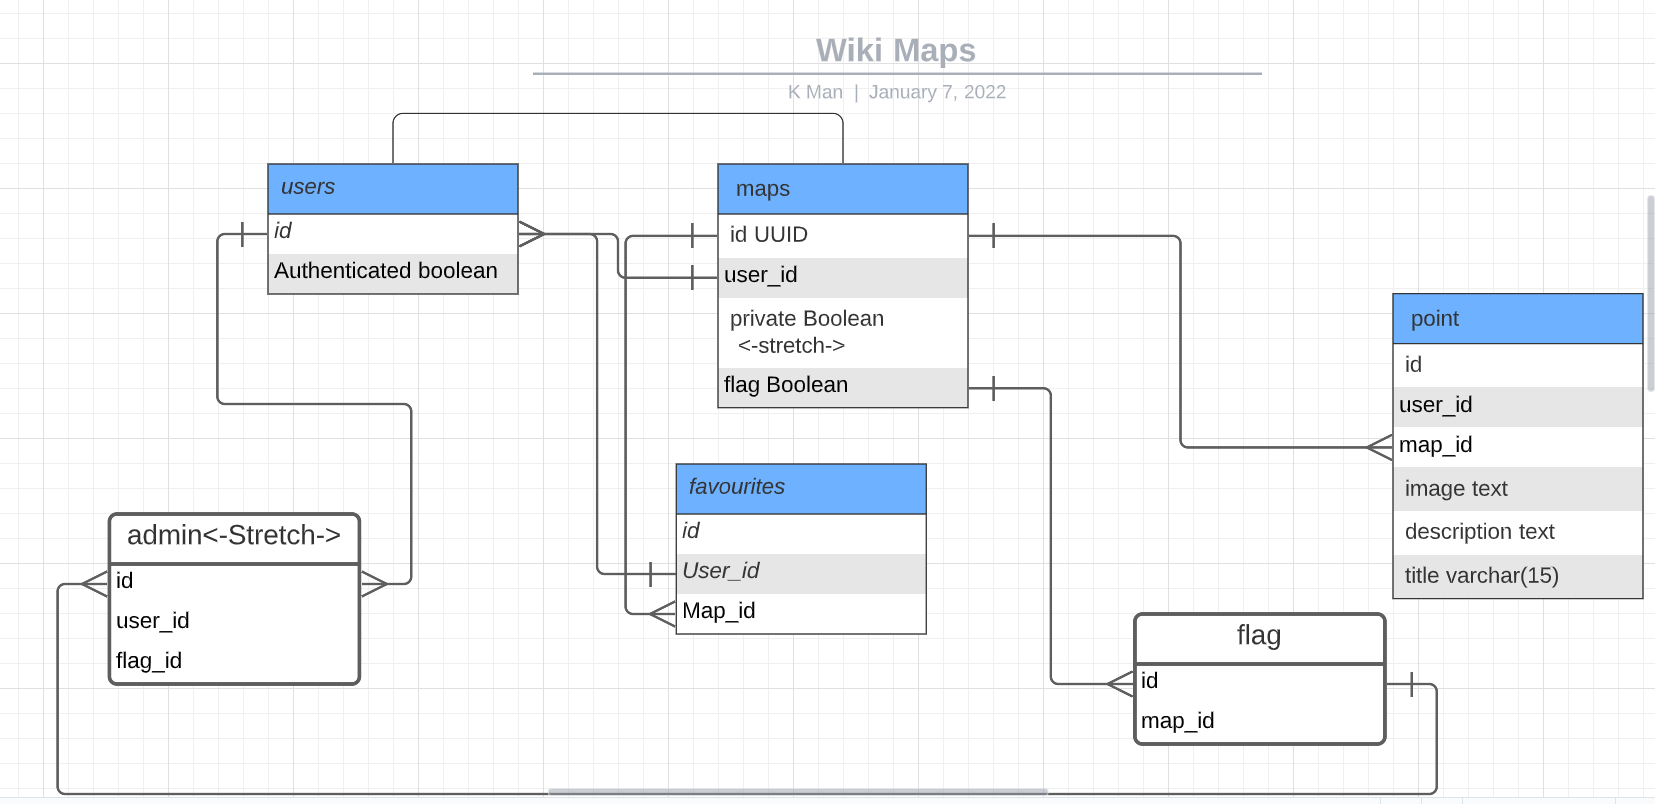
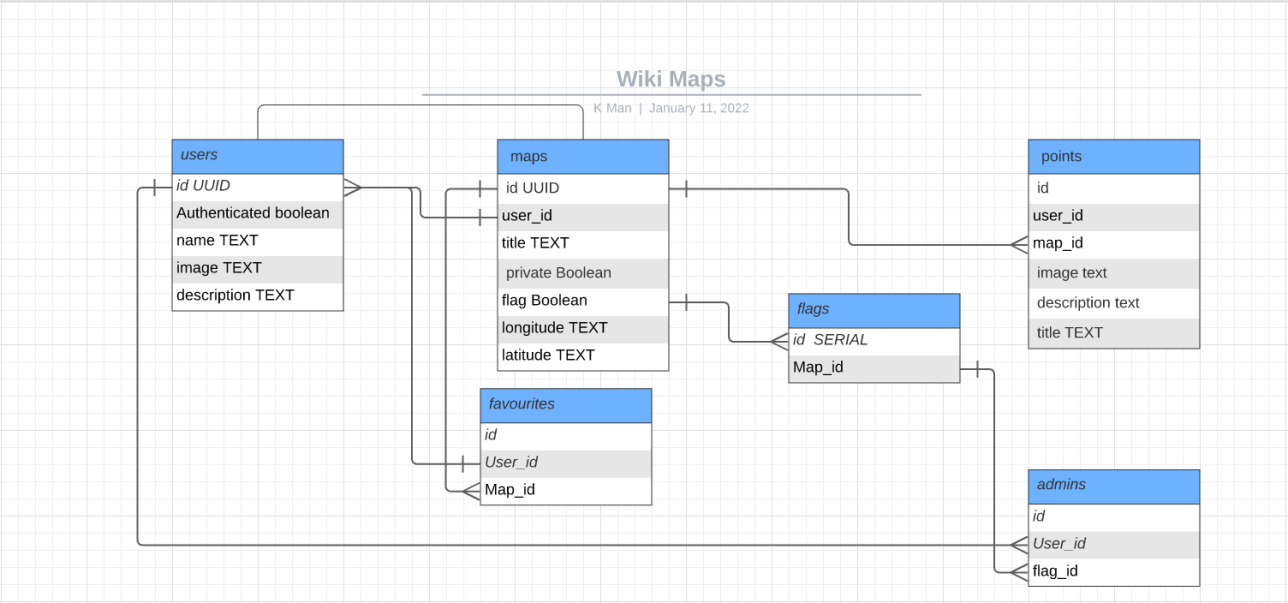
plan nearly complete starting on backend

diff --git a/planning/plan.md b/planning/plan.md
@@ -139,10 +139,11 @@ This concept helps streamline the development process and help keep the team on 
 For mid-terms, we want to focus on the MVD, the Minimum Viable Demo
 If you aren't going to demo it, don't build it
 ```
-<!-- level one  -->
+<!-- level one MVD -->
 * Get one map on the screen
 * Get one point on the screen
 * get one user profile
+
 
 ## Wireframes
 <!-- Draw out the structure of your web pages
@@ -160,6 +161,7 @@ Get inspiration from websites you visit -->
 * Database management
 
 ### Git Workflow
+Try to commit every ten lines but  if you can't try  to split commits based on  the file you were working on.
 * GARY'S WORKFLOW
   ** git branch feature/routes
   ** git checkout feature/routes
@@ -174,29 +176,33 @@ Get inspiration from websites you visit -->
 * DROP TABLE IF EXISTS users;
 * CREATE TABLE users (
   id UUID,
-  authenticated BOOLEAN
+  authenticated BOOLEAN,
+  name TEXT NOT NULL,
+  image TEXT
   );
   DROP TABLE IF EXISTS maps;
 * CREATE TABLE maps (
   id UUID PRIMARY KEY,
   user_id UUID REFERENCES users(id),
-  title VARCHAR(15) NOT NULL,
+  title TEXT NOT NULL,
   private BOOLEAN,
   flag BOOLEAN
   );
   DROP TABLE IF EXISTS flags;
 * CREATE TABLE flags (
   id INTEGER PRIMARY KEY,
-  map_id  UUID REFERENCES maps(id)
+  map_id UUID REFERENCES maps(id)
   );
   DROP TABLE IF EXISTS points;
 * CREATE TABLE points (
   id INTEGER PRIMARY KEY,
   user_id UUID REFERENCES users(id),
   map_id  UUID REFERENCES maps(id),
-  title VARCHAR(15) NOT NULL, 
+  title TEXT NOT NULL, 
   description TEXT,
   image TEXT
+  longitude TEXT
+  latitude TEXT 
   );
   DROP TABLE IF EXISTS favourites;
 * CREATE TABLE favourites (
